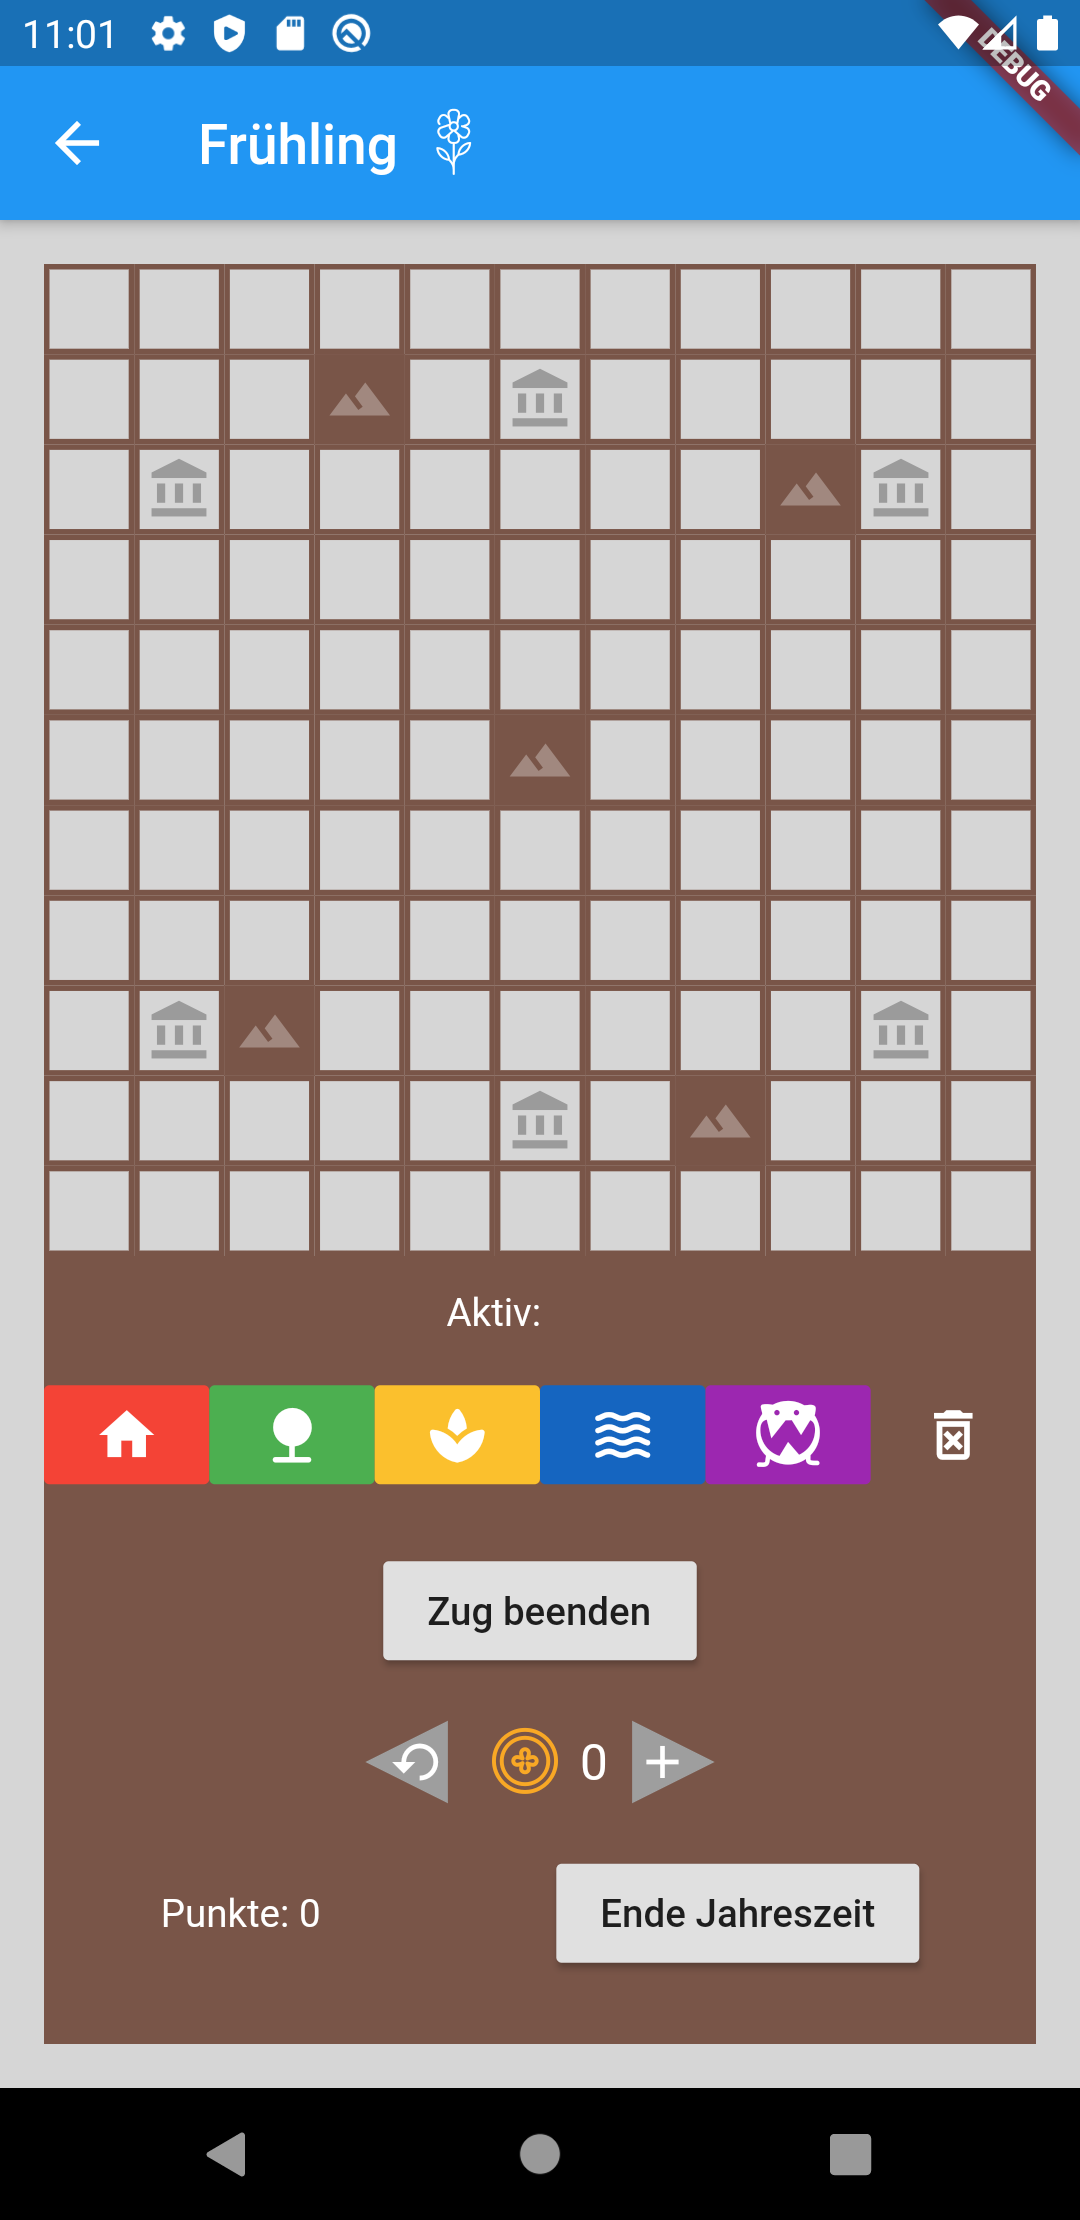
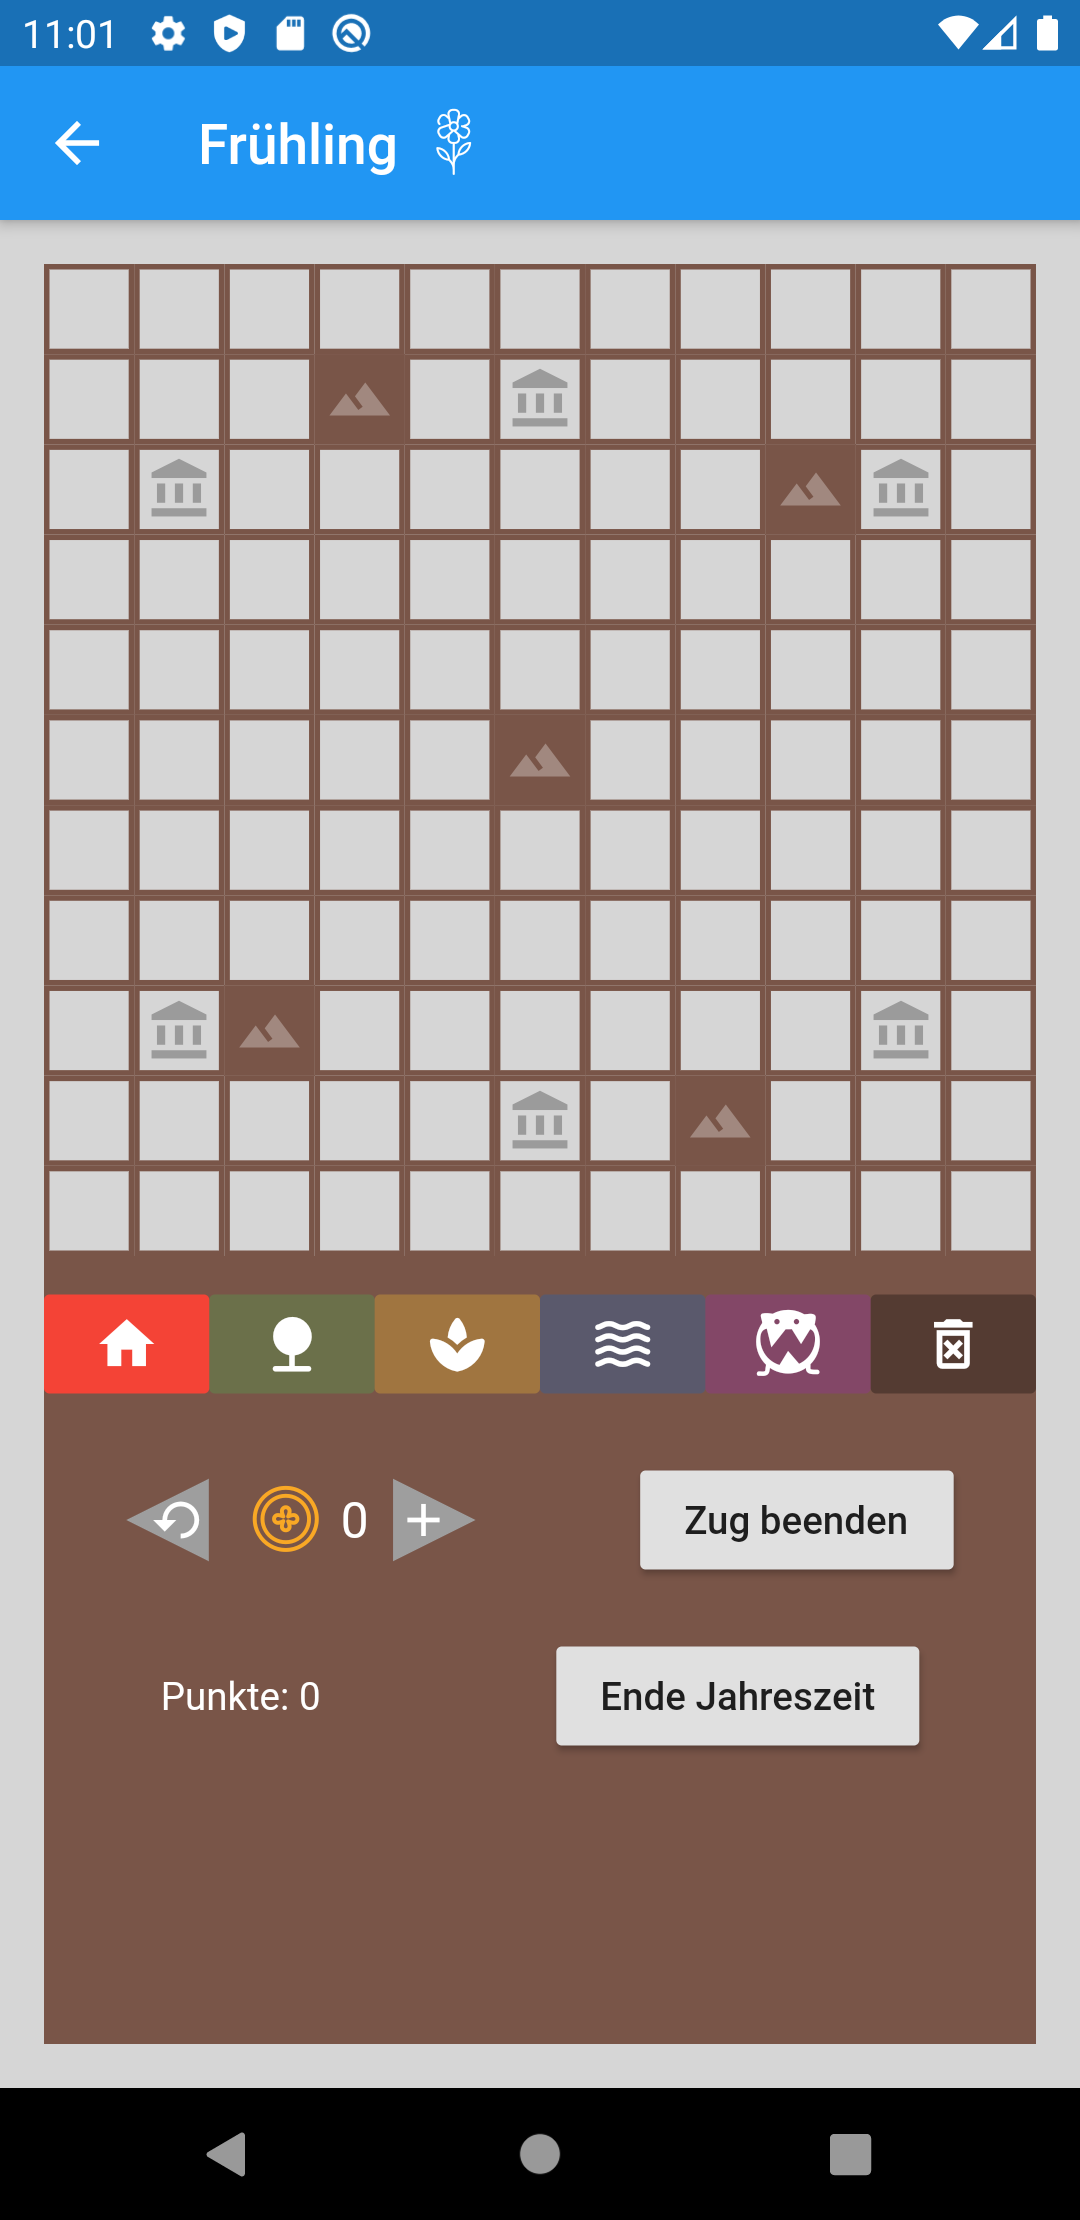
add new screenshots with updated layout

diff --git a/lib/app.dart b/lib/app.dart
@@ -13,6 +13,7 @@ class App extends StatelessWidget {
         BlocProvider<SeasonsCubit>(create: (_) => SeasonsCubit())
       ],
       child: MaterialApp(
+        debugShowCheckedModeBanner: false,
         theme: ThemeData(
           visualDensity: VisualDensity.adaptivePlatformDensity,
         ),
